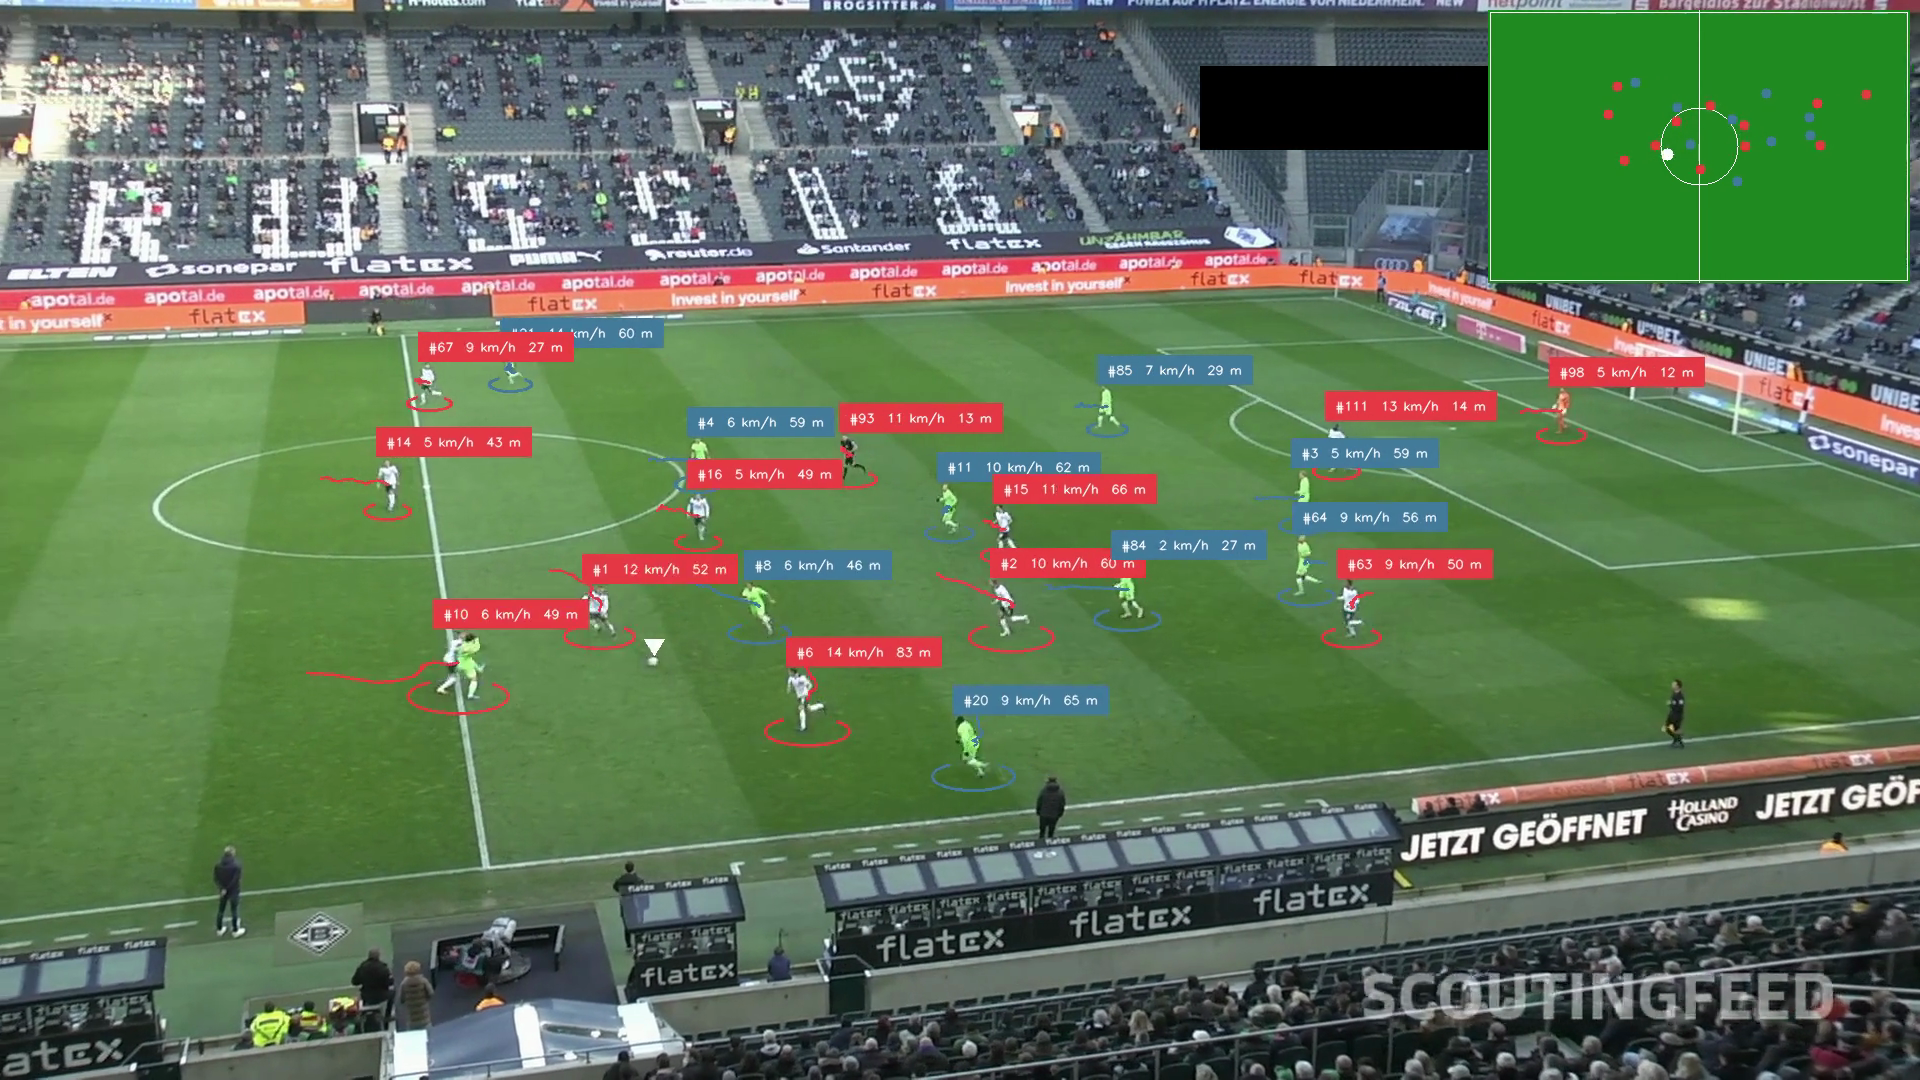
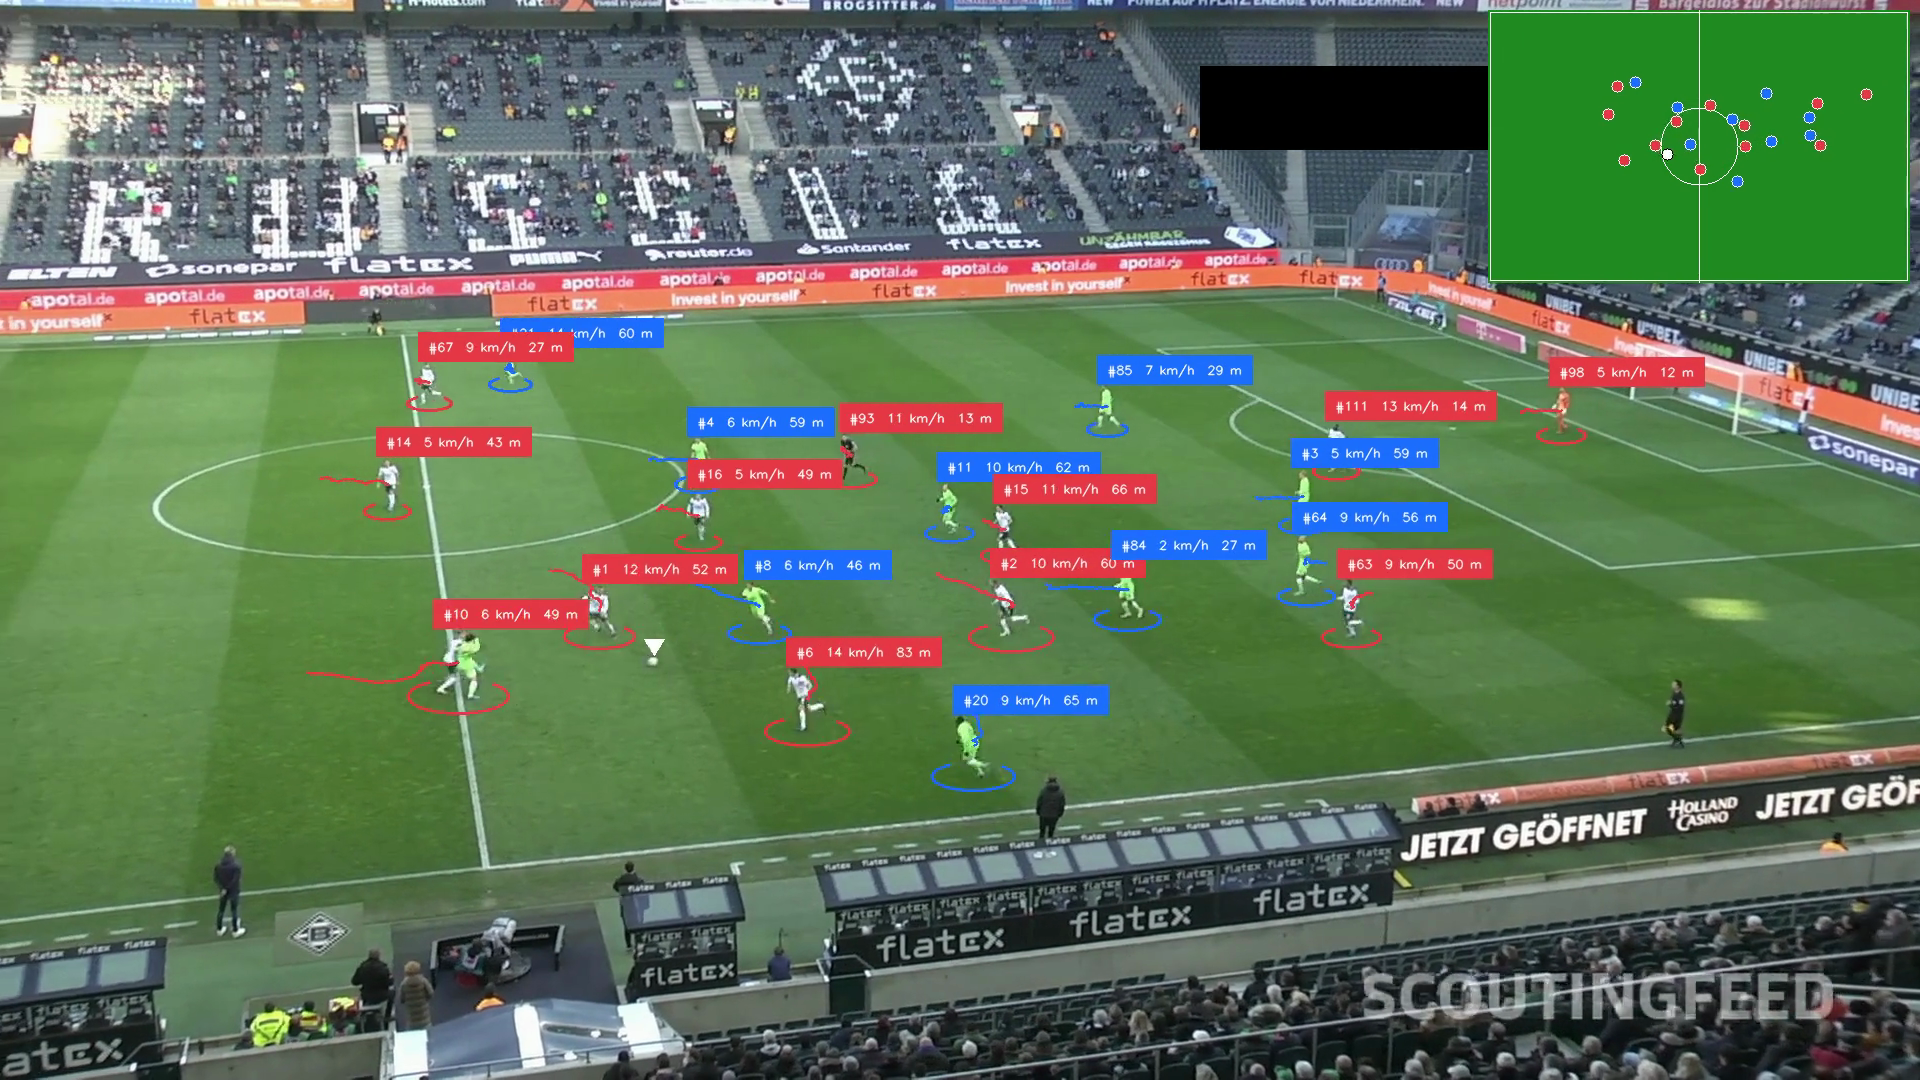
fix: make team 1 and minimap dots visible on the grass
The grey-blue team colour blended into the green pitch, so the minimap
looked like it only showed one team. Use a brighter blue and outline the
minimap dots.

diff --git a/src/annotation/visualizer.py b/src/annotation/visualizer.py
@@ -9,7 +9,7 @@ import supervision as sv
 # Default team palette – overridden at runtime by discovered jersey colors.
 _TEAM_COLORS = [
     sv.Color(r=230, g=57, b=70),  # team 0 – red
-    sv.Color(r=69, g=123, b=157),  # team 1 – blue
+    sv.Color(r=30, g=110, b=255),  # team 1 – blue (bright enough to stand out on grass)
     sv.Color(r=244, g=211, b=94),  # unknown / referee – yellow
 ]
 _UNKNOWN = len(_TEAM_COLORS) - 1
@@ -123,14 +123,17 @@ class FrameAnnotator:
                 mm_pt = transformer.meters_to_minimap_pixel(pos_m, (mw, mh))
                 team = team_ids.get(int(tid), _UNKNOWN)
                 color = _TEAM_COLORS[min(team, _UNKNOWN)]
-                cv2.circle(minimap, tuple(mm_pt.tolist()), 5, color.as_bgr(), -1)
+                center = tuple(mm_pt.tolist())
+                cv2.circle(minimap, center, 6, (255, 255, 255), -1)  # white outline
+                cv2.circle(minimap, center, 5, color.as_bgr(), -1)
 
         if len(ball) > 0:
             bx1, by1, bx2, by2 = ball.xyxy[0]
             bx, by = (bx1 + bx2) / 2.0, float(by2)
             bpos_m = transformer.pixel_to_meters(np.array([bx, by]) - camera_offset)
             bmm = transformer.meters_to_minimap_pixel(bpos_m, (mw, mh))
-            cv2.circle(minimap, tuple(bmm.tolist()), 6, (255, 255, 255), -1)
+            cv2.circle(minimap, tuple(bmm.tolist()), 6, (0, 0, 0), -1)  # dark outline
+            cv2.circle(minimap, tuple(bmm.tolist()), 5, (255, 255, 255), -1)
 
         frame[pad : pad + mh, fw - mw - pad : fw - pad] = minimap
         return frame
